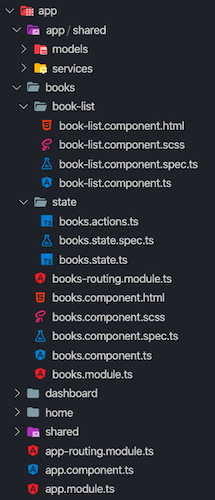
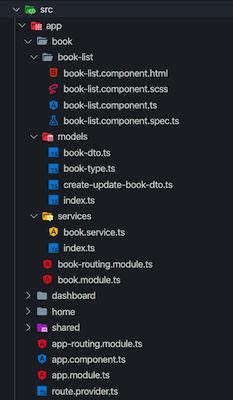
docs: update the part 1 of bookstore tutorial

diff --git a/en/tutorials/book-store/part-1.md b/en/tutorials/book-store/part-1.md
@@ -765,7 +765,7 @@ It's time to create something visible and usable! There are some tools that we w
 
 - [Angular CLI](https://angular.io/cli) will be used to create modules, components and services.
 - [NGXS](https://ngxs.gitbook.io/ngxs/) will be used as the state management library.
-- [Ng Bootstrap](https://ng-bootstrap.github.io/#/home) will be used as the UI component library.
+- [ngx-datatable](https://swimlane.gitbook.io/ngx-datatable/) will be used as the datatable library.
 - [Visual Studio Code](https://code.visualstudio.com/) will be used as the code editor (you can use your favorite editor).
 
 #### Install NPM packages
@@ -788,27 +788,56 @@ yarn ng generate module book --routing true
 
 #### Routing
 
-Open the `app-routing.module.ts` file in `src\app` folder. Add the new `import` and add a route as shown below
+Open the `app-routing.module.ts` file in `src\app` folder and add a route as shown below:
 
 ```js
-import { ApplicationLayoutComponent } from '@volo/abp.ng.theme.lepton'; //==> added this line to imports <==
+const routes: Routes = [
+// ...
+// added a new route to the routes array
+  {
+    path: 'books',
+    loadChildren: () => import('./book/book.module').then(m => m.BookModule)
+  }
+]
+```
 
-//...added books path with the below to the routes array
-{
-  path: 'books',
-  component: ApplicationLayoutComponent,
-  loadChildren: () => import('./book/book.module').then(m => m.BookModule),
-  data: {
-    routes: {
-      name: '::Menu:Books',
-      iconClass: 'fas fa-book'
-    } as ABP.Route
-  },
+* We added a lazy-loaded route. See the [Lazy-Loading Feature Modules](https://angular.io/guide/lazy-loading-ngmodules#lazy-loading-feature-modules).
+
+Open the `route.provider.ts` file in `src\app` folder and replace the content as below:
+
+```js
+import { RoutesService, eLayoutType } from '@abp/ng.core';
+import { APP_INITIALIZER } from '@angular/core';
+
+export const APP_ROUTE_PROVIDER = [
+  { provide: APP_INITIALIZER, useFactory: configureRoutes, deps: [RoutesService], multi: true },
+];
+
+function configureRoutes(routes: RoutesService) {
+  return () => {
+    routes.add([
+      //...
+      // added below element
+      {
+        path: '/books',
+        name: '::Menu:Books',
+        iconClass: 'fas fa-book',
+        order: 101,
+        layout: eLayoutType.application,
+      },
+    ]);
+  };
 }
 ```
 
-* The `ApplicationLayoutComponent` configuration sets the application layout to the new page. We added the `data` object. The `name` is the menu item name and the `iconClass` is the icon of the menu item.
+* We added a new route element to show a navigation element labeled "Books" on the menu. 
+  * `path` is the URL of the route.
+  * `name` is the menu item name. A Localization key can be passed.
+  * `iconClass` is the icon of the menu item.
+  * `order` is the order of the menu item. We define 101 to show the route after the "Administration" item.
+  * `layout` is the layout of the BooksModule's routes. `eLayoutType.application`, `eLayoutType.account` or `eLayoutType.empty` can be defined.
 
+For more information, see the [RoutesService document](https://docs.abp.io/en/abp/latest/UI/Angular/Modifying-the-Menu.md#via-routesservice).
 
 #### Book list component
 
@@ -876,35 +905,6 @@ Open the browser and navigate to http://localhost:4200/books. We'll see **book-l
 
 ![Initial book list page](../../images/bookstore-initial-book-list-page.png)
 
-#### Create BookState
-
-Run the following command in the terminal to create a new state, named `BooksState`:
-
-```bash
-npx @ngxs/cli --name book --directory src/app/book
-```
-
-* This command creates `book.state.ts` and `book.actions.ts` files in the `src/app/book/state` folder. See the [NGXS CLI documentation](https://www.ngxs.io/plugins/cli).
-
-Import the `BookState` to the `app.module.ts` in the `src/app` folder and then add the `BookState` to `forRoot` static method of `NgxsModule` as an array element of the first parameter of the method.
-
-```js
-// ...
-import { BookState } from './book/state/book.state'; //<== imported BookState ==>
-
-@NgModule({
-  imports: [
-    // other imports
-
-    NgxsModule.forRoot([BookState]), //<== added BookState ==>
-
-    //other imports
-  ],
-  // ...
-})
-export class AppModule {}
-```
-
 #### Generate proxies
 
 ABP CLI provides `generate-proxy` command that generates client proxies for your HTTP APIs to make easy to consume your services from the client side. Before running generate-proxy command, your host must be up and running. See the [CLI documentation](https://docs.abp.io/en/abp/latest/CLI)
@@ -921,111 +921,41 @@ The generated files looks like below:
 
 ![Generated files](../../images/generated-proxies.png)
 
-#### GetBooks Action
-
-Actions can either be thought of as a command which should trigger something to happen, or as the resulting event of something that has already happened. [See NGXS Actions documentation](https://www.ngxs.io/concepts/actions).
-
-Open the `book.actions.ts` file in `app/book/state` folder and replace the content below:
-
-```js
-export class GetBooks {
-  static readonly type = '[Book] Get';
-}
-```
-
-
-#### Implement BooksState
-
-Open the `book.state.ts` file in `app/book/state` folder and replace the content below:
-
-```js
-import { PagedResultDto } from '@abp/ng.core';
-import { State, Action, StateContext, Selector } from '@ngxs/store';
-import { GetBooks } from './book.actions';
-import { BookService } from '../services';
-import { tap } from 'rxjs/operators';
-import { Injectable } from '@angular/core';
-import { BookDto } from '../models';
-
-export class BookStateModel {
-  public book: PagedResultDto<BookDto>;
-}
-
-@State<BookStateModel>({
-  name: 'BookState',
-  defaults: { book: {} } as BookStateModel,
-})
-@Injectable()
-export class BookState {
-  @Selector()
-  static getBooks(state: BookStateModel) {
-    return state.book.items || [];
-  }
-
-  constructor(private bookService: BookService) {}
-
-  @Action(GetBooks)
-  get(ctx: StateContext<BookStateModel>) {
-    return this.bookService.getListByInput().pipe(
-      tap((booksResponse) => {
-        ctx.patchState({
-          book: booksResponse,
-        });
-      })
-    );
-  }
-}
-```
-
-* We added the book property to BookStateModel model.
-* We added the `GetBooks` action that retrieves the book data via `BookService` that generated via ABP CLI and patches the state.
-* `NGXS` requires to return the observable without subscribing it in the get function.
-
-
 #### BookListComponent
 
 Open the `book-list.component.ts` file in `app\book\book-list` folder and replace the content as below:
 
 ```js
+import { ListService, PagedResultDto } from '@abp/ng.core';
 import { Component, OnInit } from '@angular/core';
-import { Select, Store } from '@ngxs/store';
-import { Observable } from 'rxjs';
-import { finalize } from 'rxjs/operators';
 import { BookDto, BookType } from '../models';
-import { GetBooks } from '../state/book.actions';
-import { BookState } from '../state/book.state';
+import { BookService } from '../services';
 
 @Component({
   selector: 'app-book-list',
   templateUrl: './book-list.component.html',
   styleUrls: ['./book-list.component.scss'],
+  providers: [ListService],
 })
 export class BookListComponent implements OnInit {
-  @Select(BookState.getBooks)
-  books$: Observable<BookDto[]>;
+  book = { items: [], totalCount: 0 } as PagedResultDto<BookDto>;
 
   booksType = BookType;
 
-  loading = false;
-
-  constructor(private store: Store) {}
+  constructor(public readonly list: ListService, private bookService: BookService) {}
 
   ngOnInit() {
-    this.get();
-  }
+    const bookStreamCreator = (query) => this.bookService.getListByInput(query);
 
-  get() {
-    this.loading = true;
-    this.store
-      .dispatch(new GetBooks())
-      .pipe(finalize(() => (this.loading = false)))
-      .subscribe(() => {});
+    this.list.hookToQuery(bookStreamCreator).subscribe((response) => {
+      this.book = response;
+    });
   }
 }
 ```
 
-* We added the `get` function that updates store to get the books.
-* See the [Dispatching actions](https://ngxs.gitbook.io/ngxs/concepts/store#dispatching-actions) and [Select](https://ngxs.gitbook.io/ngxs/concepts/select) on the `NGXS` documentation for more information on these `NGXS` features.
+* We imported and injected the generated `BookService`.
+* We implemented the [ListService](https://docs.abp.io/en/abp/latest/UI/Angular/List-Service) that is a utility service to provide easy pagination, sorting, and search implementation.
 
 Open the `book-list.component.html` file in `app\book\book-list` folder and replace the content as below:
 
@@ -1043,33 +973,26 @@ Open the `book-list.component.html` file in `app\book\book-list` folder and repl
 </div>
 
 <div id="wrapper" class="card">
-    <div class="card-body">
-      <abp-table
-        [value]="books$ | async"
-        [abpLoading]="loading"
-        [headerTemplate]="tableHeader"
-        [bodyTemplate]="tableBody"
-        [rows]="10"
-        [scrollable]="true"
-      >
-      </abp-table>
-      <ng-template #tableHeader>
-        <tr>
-          <th>{%{{{ "::Name" | abpLocalization }}}%}</th>
-          <th>{%{{{ "::Type" | abpLocalization }}}%}</th>
-          <th>{%{{{ "::PublishDate" | abpLocalization }}}%}</th>
-          <th>{%{{{ "::Price" | abpLocalization }}}%}</th>
-        </tr>
-      </ng-template>
-      <ng-template #tableBody let-data>
-        <tr>
-          <td>{%{{{ data.name }}}%}</td>
-          <td>{%{{{ booksType[data.type] }}}%}</td>
-          <td>{%{{{ data.publishDate | date }}}%}</td>
-          <td>{%{{{ data.price }}}%}</td>
-        </tr>
-      </ng-template>
-    </div>
+  <div class="card-body">
+    <ngx-datatable [rows]="book.items" [count]="book.totalCount" [list]="list" default>
+      <ngx-datatable-column [name]="'::Name' | abpLocalization" prop="name"></ngx-datatable-column>
+      <ngx-datatable-column [name]="'::Type' | abpLocalization" prop="type">
+        <ng-template let-row="row" ngx-datatable-cell-template>
+          {%{{{ booksType[row.type] }}}%}
+        </ng-template>
+      </ngx-datatable-column>
+      <ngx-datatable-column [name]="'::PublishDate' | abpLocalization" prop="publishDate">
+        <ng-template let-row="row" ngx-datatable-cell-template>
+          {%{{{ row.publishDate | date }}}%}
+        </ng-template>
+      </ngx-datatable-column>
+      <ngx-datatable-column [name]="'::Price' | abpLocalization" prop="price">
+        <ng-template let-row="row" ngx-datatable-cell-template>
+          {%{{{ row.price | currency }}}%}
+        </ng-template>
+      </ngx-datatable-column>
+    </ngx-datatable>
+  </div>
 </div>
 ```
 
@@ -1089,4 +1012,4 @@ In this tutorial we have applied the rules of official [Angular Style Guide](htt
 
 ### Next Part
 
-See the [part 2](part-2.md) for creating, updating and deleting books.
+See the [part 2](./part-2.md) for creating, updating and deleting books.
